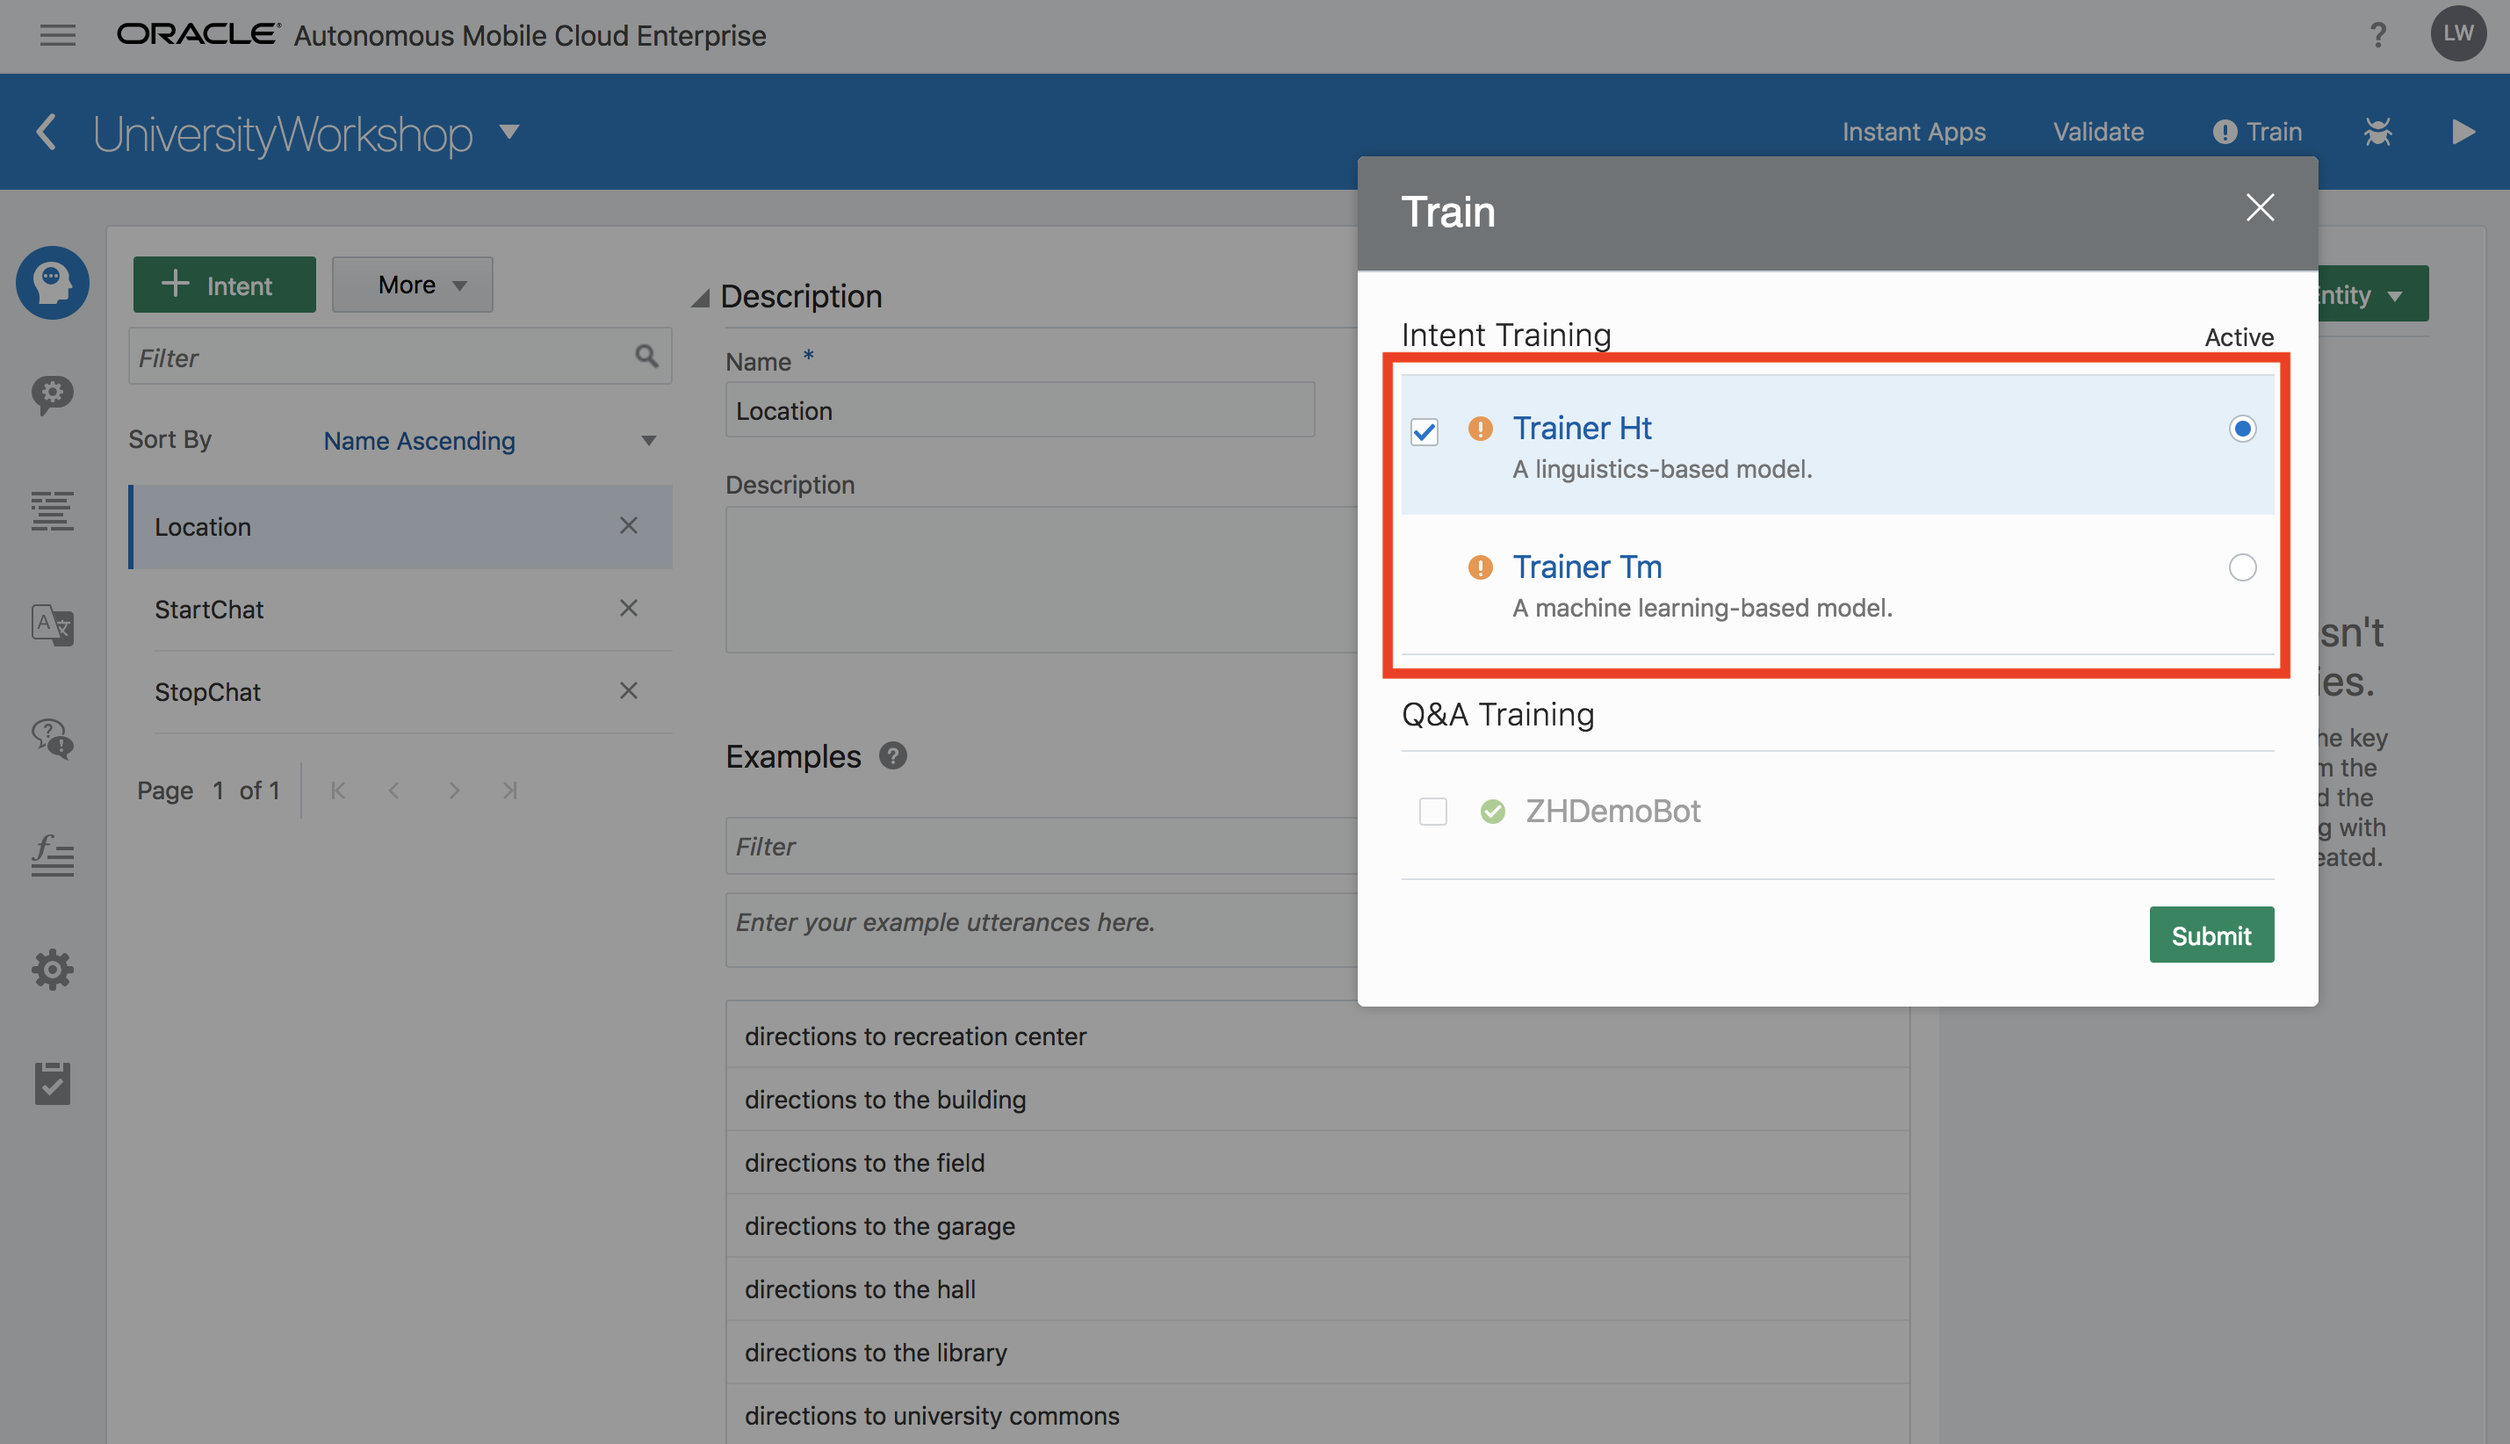
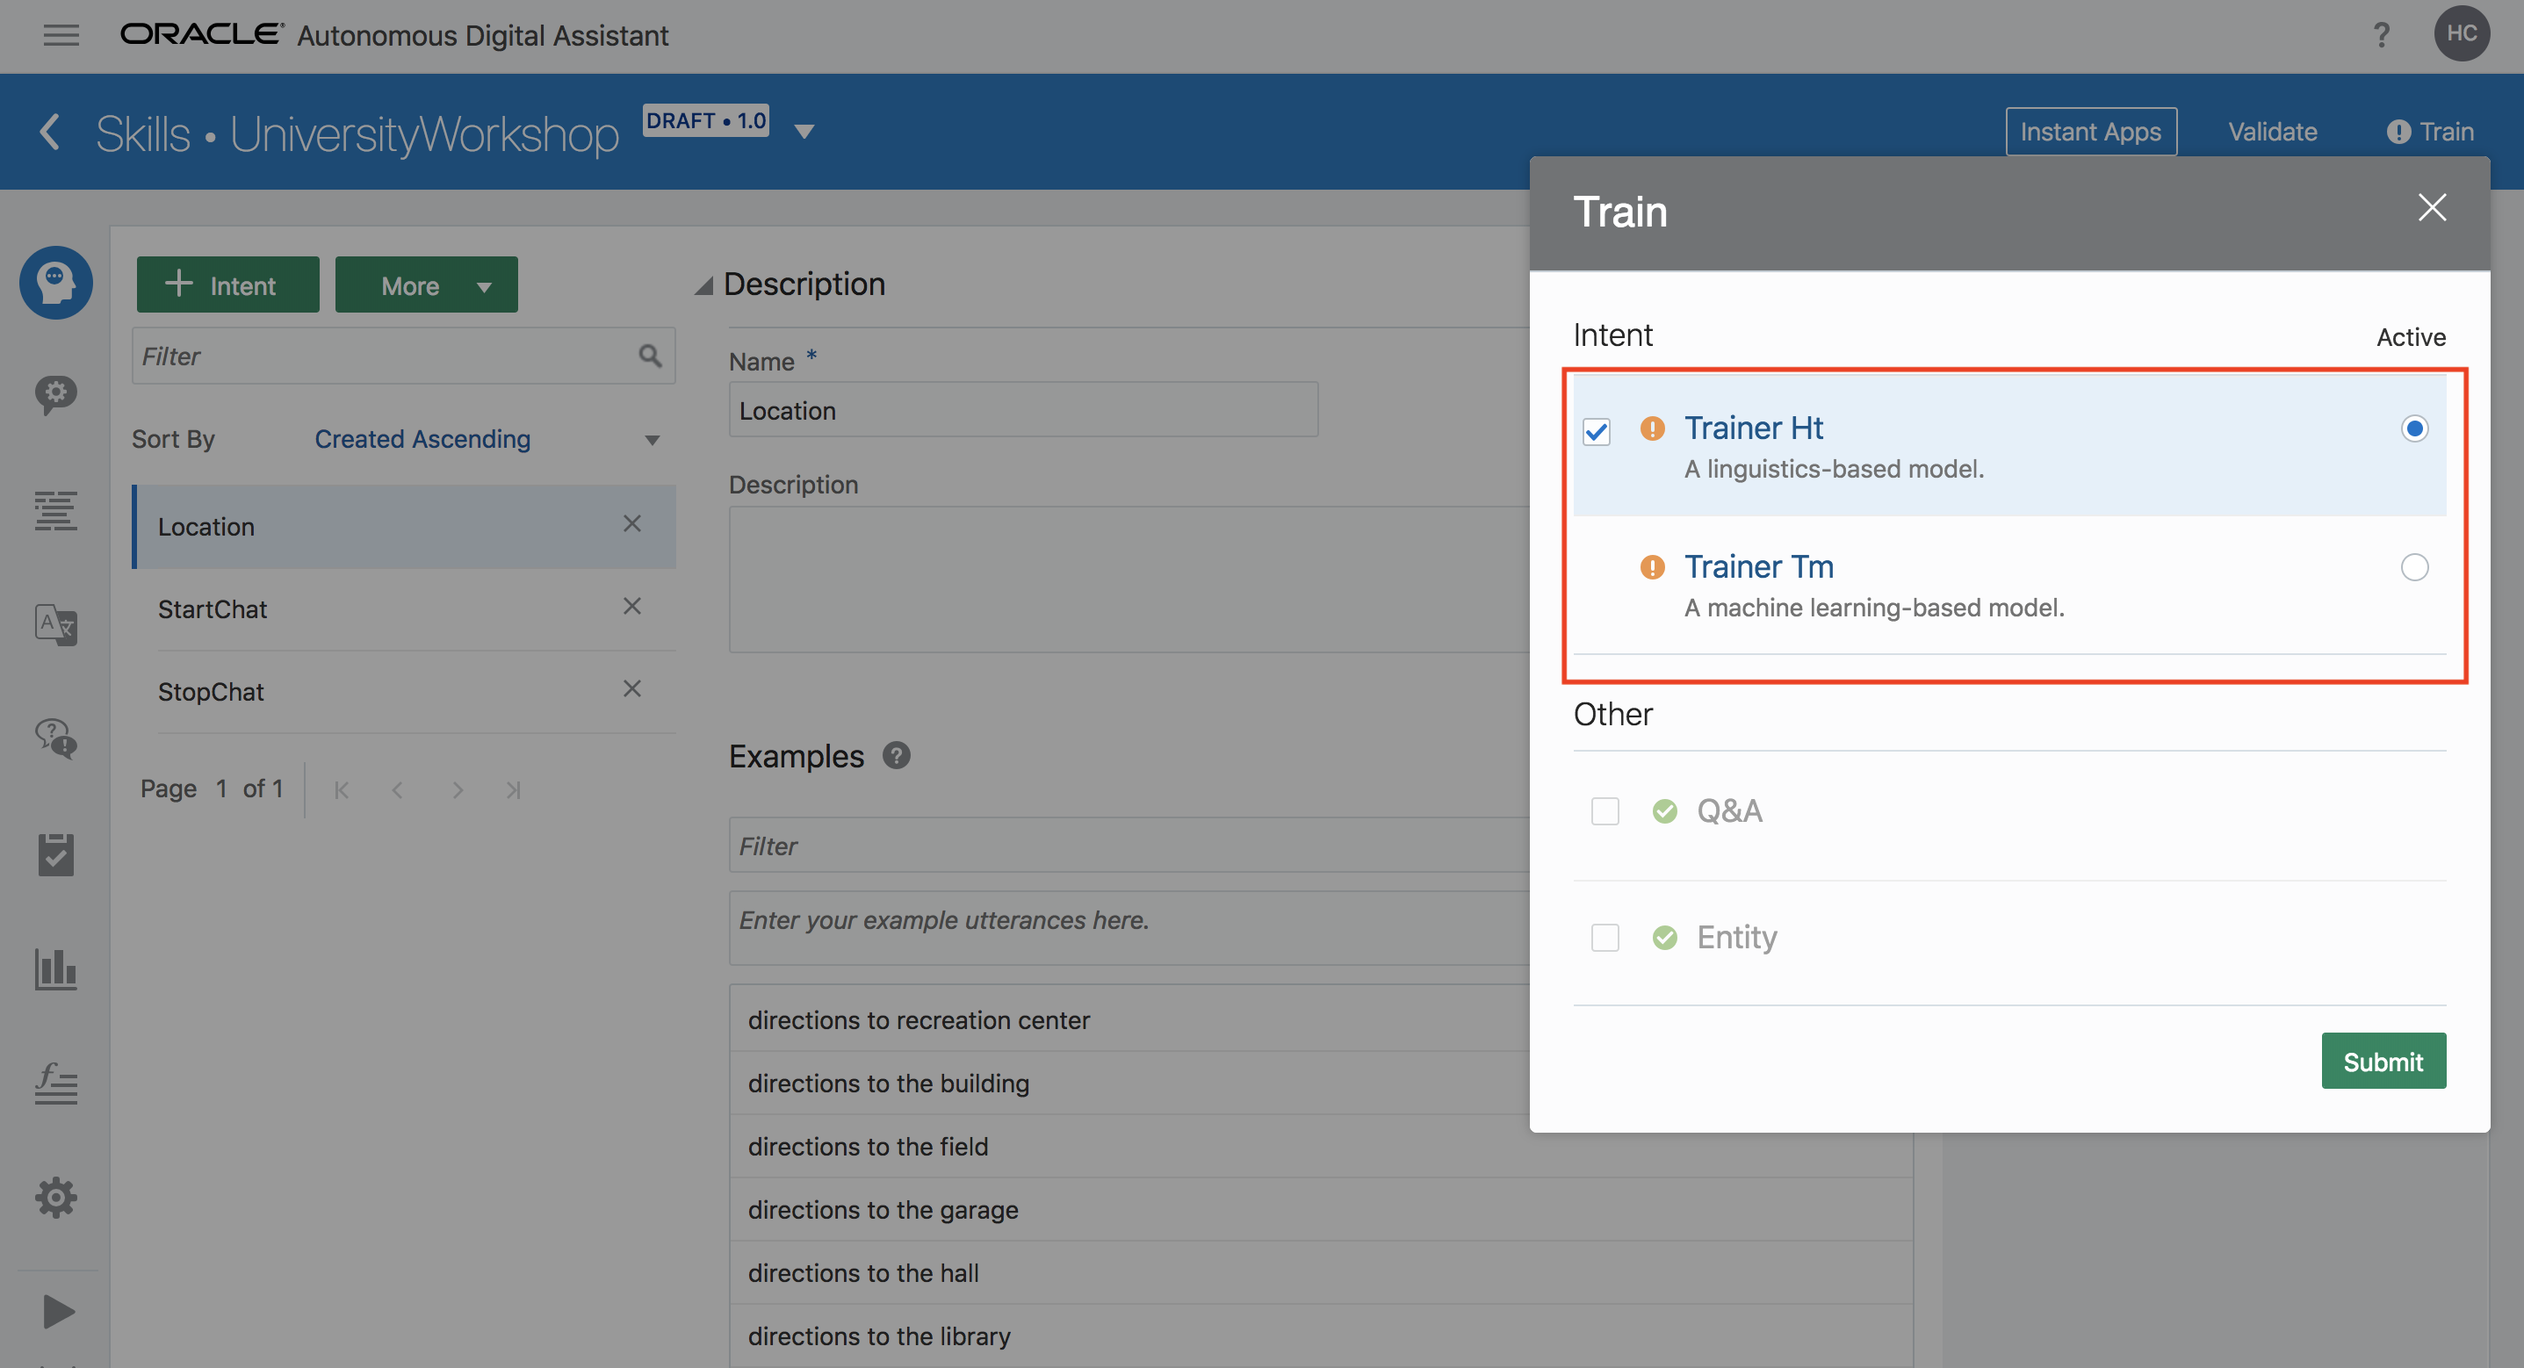
Modified Lab100.md

diff --git a/tempory.md b/tempory.md
@@ -31,16 +31,20 @@ This lab walks you through the steps to explore ODA Skill UI, import a skill cal
 
 ![](./images/100/4.png)
 
-### Step 2: Access Oracle Digital Assistant
+### Step 2: Access Autonomous Mobile Cloud Enterprise
 
 - Now, you are in the Oracle Cloud dashboard. Click on the hamburger menu button on the upper left of the screen and expand **Services**.
 - Note: 
-	- Scroll a little bit and find **Digital Assistant** and Provision one instance.
+	- At first time, if you cannot find this cloud service, click 'Compute Classic', then you will find it.
+    - Make sure your 'Identity Domain' which is on the right-top side is correct.
 
 ![](./images/100/15.png)
 
-- Provisioning an ODA instance
-  ** Currently, With FREE TRIAL account, you cannot provision ODA instance until the transition is completed.**
+- Scroll down and find **Autonomous Mobile Cloud Enterprise** and Provision one instance.
+
+![](./images/100/14.png)
+
+- Provisioning an AMCE instance
 
 :: Click **Create Instance** 
 ![](./images/100/14_1.png)
@@ -49,35 +53,46 @@ This lab walks you through the steps to explore ODA Skill UI, import a skill cal
 ![](./images/100/14_2.png)
 
 :: Click **Confirm**, after you review the information
- 
-  ** For the workshop, you may contact with sales representative. **
+![](./images/100/14_3.png)
 
-- Now, you should be in ODA's dashboard page. Click on the hamburger menu icon on the upper left of the screen, and then expand **Development** dropdown
+- Once your instance is ready, click on the hamburger button next to the instance and then click on **Go to Instance Home**. 
 
-- As you can see, there are a lot of features included with ODA. Today, we will just focus on Skills and Channels. Click on **Skills** to navigate to the Skill UI.
+![](./images/100/16.png)
+
+- Now, you should be in AMCe's dashboard page. Click on the hamburger menu icon on the upper left of the screen, and then expand **Development** dropdown
 
 ![](./images/100/6.png)
 
+- As you can see, there are a lot of features included with AMCe. Today, we will just focus on Bots, Backends & APIs. Click on **Bots** to navigate to the Intelligent Bot UI.
+
+![](./images/100/7.png)
+
+- If you see a tour page, go ahead and click on **Got It!** since we are going to take you through a personal tour.
+
+![](./images/100/8.png)
+
 ### Step 3: Import University Workshop Bot
 
-- Now, you are in the DA dashboard. Close the side bar menu by clicking on the hamburger menu icon on the upper left of the screen again. 
+- Now, you are in the bot dashboard. Close the side bar menu by clicking on the hamburger menu icon on the upper left of the screen again. 
 
-- Here we have the dashboard for all of your skills. We are going to import a basic gen univeristy chatbot. We will improve this skill's workflow in later labs. Click on **Import Skill** on the top right of the screen and select the **UniversityWorkshopBot.zip** from the files you cloned from git. 
+![](./images/100/9.png)
+
+- Here we have the dashboard for all of your chatbots. We are going to import a basic gen univeristy chatbot. We will improve this chatbot's workflow in later labs. Click on **Import Bot** on the top right of the screen and select the **UniversityWorkshopBot.zip** from the files you cloned from git. 
 
 ![](./images/100/10.png)
 
-- This will import a skill called "UniversityWorkshop". Go ahead and click on it to see the details.
+- This will import a bot called "UniversityWorkshop". Go ahead and click on it to see the details.
 
 ![](./images/100/11.png)
 
-- On this page is where you will develop the rest workflow with the integration Custom Component API services (e.g. HCM backend service), configuration of Q&A, and channels for the skill. We will dive into each section on the next lab. 
+- On this page is where you will develop the rest workflow with the integration of backend & API services (e.g. HCM backend service), configuration of Q&A, and channels for the bot. We will dive into each section on the next lab. 
 
 ![](./images/100/11.png)
 
-- In order to test the functionality and the flow of the current skill: 
-   - You should train the skill firstly. 
-   - Clicking on the Play button on the bottom right of the screen which will open up a testing place to test the functionality of your skill before you fully commit to it. 
-   - Go ahead and chat with the skill. You can say "hello". 
+- In order to test the functionality and the flow of the current bot: 
+   - You should train the bot firstly. 
+   - Clicking on the Play button on the top right of the screen which will open up a testing place to test the functionality of your chatbot before you fully commit to it. 
+   - Go ahead and chat with the bot. You can say "hello". 
 
 **:: Before Training:**
 ![](./images/100/12_1_before.png)
@@ -85,14 +100,11 @@ This lab walks you through the steps to explore ODA Skill UI, import a skill cal
 **:: After Training:**
 ![](./images/100/12_1_after.png)
 
-**:: Test Play Button:**
-![](./images/100/12_1.png)
-
 **:: Testing Bot:**
 ![](./images/100/12.png)
 
 - As you can see, it will reply with welcome message and service you might like to chose. Select one service you would like to use. Student service will allow you to get or update students basic information (such as: phone, email, address etc.); Visitor service will provide you FAQ answers on the basic of your asked questions.
 
-- Now, you have familiarized with the dashboard, imported a skill, and interacted with a skill. The bot is interactive but we would like to add more functionalities to it. Let's do that in the next lab!
+- Now, you have familiarized with the dashboard, imported a chatbot, and interacted with a chatbot. The bot is interactive but we would like to add more functionalities to it. Let's do that in the next lab!
 
 **[Navigate to Lab 200](Lab200.md)**
